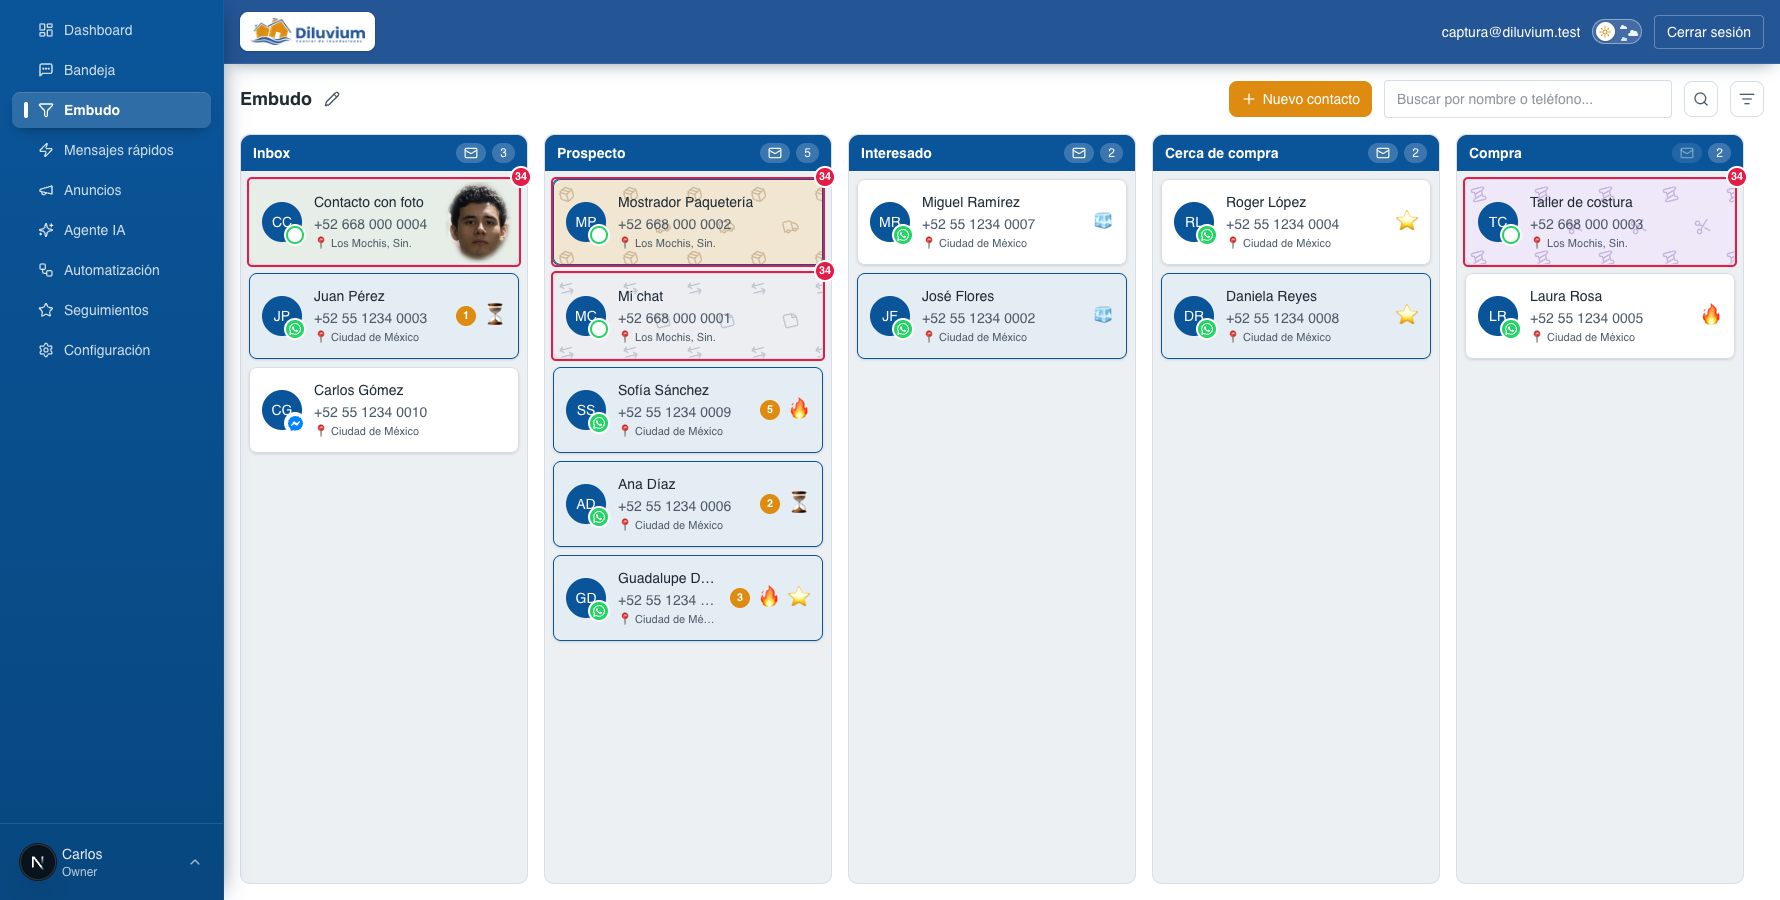
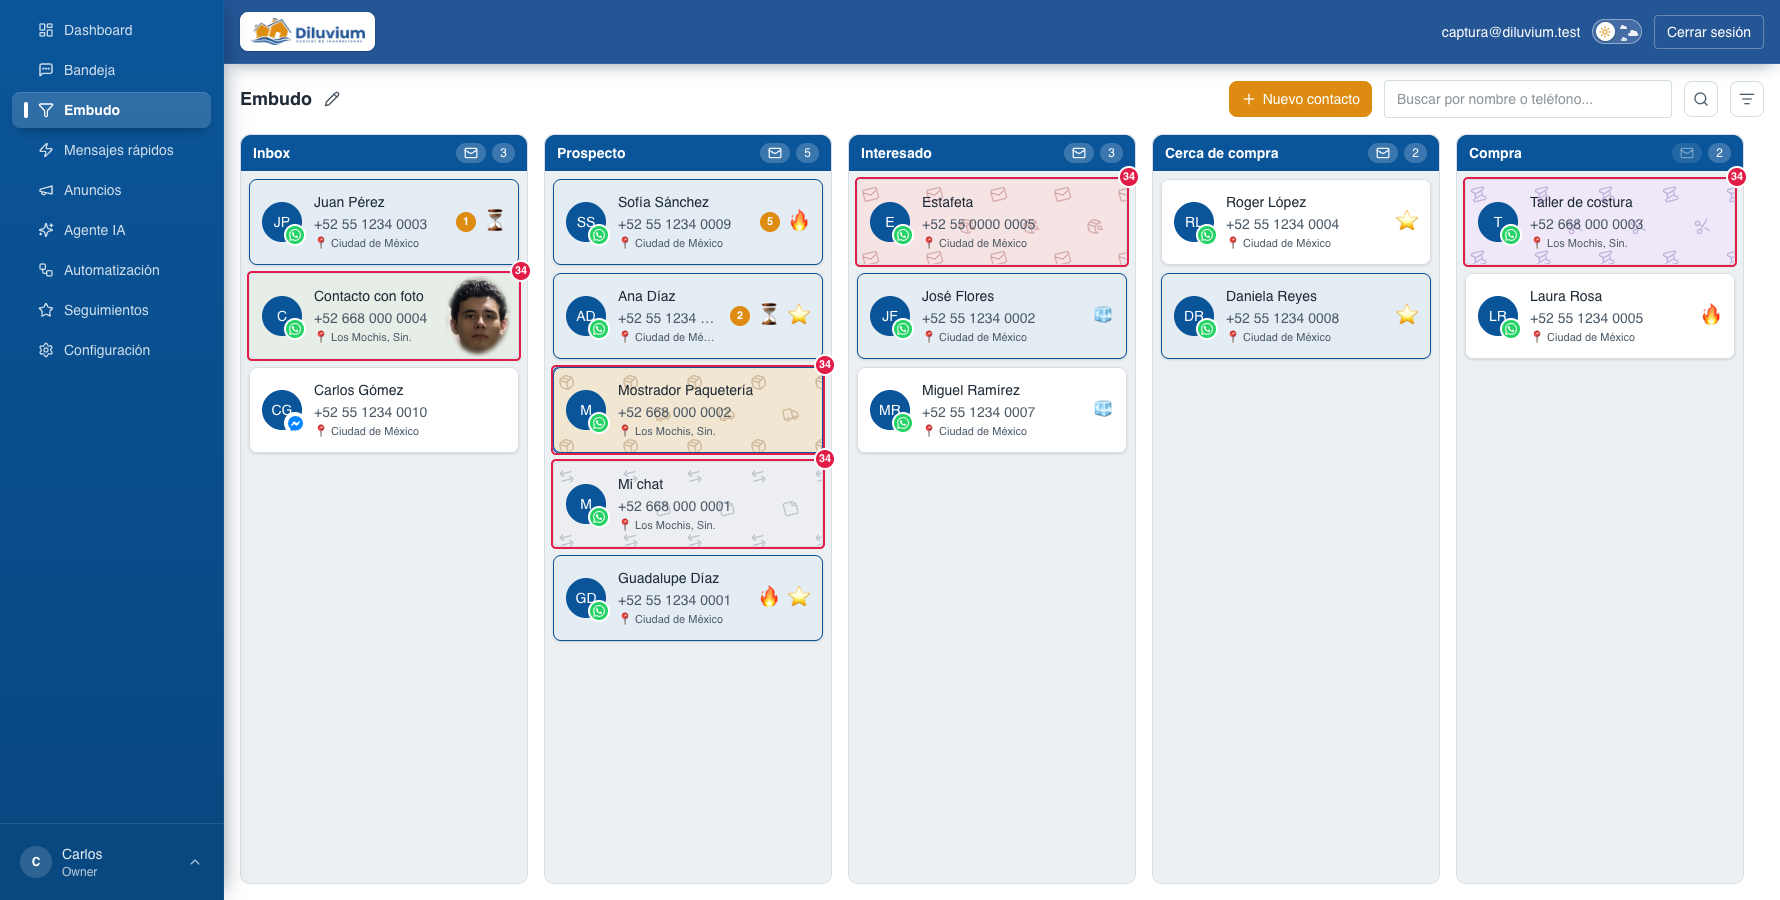
feat(embudo): tarjeta rosa para el chat de Estafeta
Pedido del dueño (14-nov-2026, opción A): el chat de Estafeta, que manda los avisos de los envíos en plantillas que
WhatsApp no deja ver («[Unsupported message]»), lleva su fondo fijo en el Embudo: rosa con sobres y una caja con
lupa de rastreo (íconos de Lucide, claro y oscuro), distinto del cartón de Paquetexpress. Sin azul, amarillo ni
naranja; con señal, el azul o el amarillo salen solo como contorno, como en las demás.

En producción, con OK LECTURA PROD y OK ESCRITURA PROD, el contacto se llamó «Estafeta» (antes era su número) y quedó
sin Agente IA (contacts.sin_agente_ia, 1 fila, sin migración: hay migraciones de otras ramas sin llegar a main).
Respaldo de la fila fuera del repo. Mapa 3.3 › 34 con captura 06-embudo-fondos, docs/bandeja.md y el registro de chats
sin Agente IA.

diff --git a/app/globals.css b/app/globals.css
@@ -302,12 +302,17 @@
    íconos de public/fondos/ según lo que hacen, o una foto. El diseño nunca se tapa
    (9-nov-2026, dueño): si la tarjeta pide atención (data-funnel), la señal sale solo
    como contorno. Sin azul (es «por contestar»), amarillo («necesita al vendedor») ni
-   naranja (nunca fondo extenso). paqueteria = cartón con cajas y camión; costura =
-   lila con carrete y tijeras; propio = gris con flechas de traspaso y notas; foto =
-   verde pálido con la cara a la derecha, sin tapar el texto. Claro y oscuro. */
+   naranja (nunca fondo extenso). paqueteria = cartón con cajas y camión; estafeta =
+   rosa con sobres y caja con lupa de rastreo (14-nov-2026); costura = lila con
+   carrete y tijeras; propio = gris con flechas de traspaso y notas; foto = verde
+   pálido con la cara a la derecha, sin tapar el texto. Claro y oscuro. */
 [data-fondo="paqueteria"] {
   --fondo-color: #f1e6d2;
   --fondo-patron: url("/fondos/paqueteria-claro.svg");
+}
+[data-fondo="estafeta"] {
+  --fondo-color: #f6e3e3;
+  --fondo-patron: url("/fondos/estafeta-claro.svg");
 }
 [data-fondo="costura"] {
   --fondo-color: #efe8f8;
@@ -320,6 +325,10 @@
 .dark [data-fondo="paqueteria"] {
   --fondo-color: #3b3022;
   --fondo-patron: url("/fondos/paqueteria-oscuro.svg");
+}
+.dark [data-fondo="estafeta"] {
+  --fondo-color: #3e2629;
+  --fondo-patron: url("/fondos/estafeta-oscuro.svg");
 }
 .dark [data-fondo="costura"] {
   --fondo-color: #2f2742;

diff --git a/lib/contacts/tarjeta-fondo.ts b/lib/contacts/tarjeta-fondo.ts
@@ -4,13 +4,16 @@
 // («por contestar») o el amarillo («el Agente IA necesita al vendedor») salen solo como contorno alrededor.
 // Por id del contacto (el teléfono no va al repo, que es público). docs/mapa-crm/3.3-embudo.md.
 
-export type TarjetaFondo = "paqueteria" | "costura" | "propio" | "foto";
+export type TarjetaFondo = "paqueteria" | "estafeta" | "costura" | "propio" | "foto";
 
 const FONDO_POR_CONTACTO: ReadonlyMap<string, TarjetaFondo> = new Map([
   // Chat propio del dueño, para pasarse mensajes (sin Agente IA, migración 0071).
   ["d3bc6189-89c8-4739-b29d-06d9b4b909c6", "propio"],
   // Paquetería: desde aquí se piden las recolecciones (sin Agente IA, migración 0072).
   ["74f1580f-eddf-4833-ba12-7493c5323170", "paqueteria"],
+  // Estafeta: avisos de los envíos en plantillas que WhatsApp no deja ver (sin Agente IA desde el 14-nov-2026,
+  // marcado en producción con OK).
+  ["23fcc0c0-a453-4383-a2f8-a891dc2ce78c", "estafeta"],
   // Proveedor de las fundas a la medida (sin Agente IA desde el 29-oct-2026, marcado en producción con OK).
   ["e5aeb75f-9c5c-4673-ae43-1ba54aec9227", "costura"],
   // Contacto con su foto de fondo (sin Agente IA desde el 9-nov-2026, pedido por el dueño).

diff --git a/lib/contacts/tarjeta-fondo.test.ts b/lib/contacts/tarjeta-fondo.test.ts
@@ -3,6 +3,7 @@ import { tarjetaFondo } from "./tarjeta-fondo";
 
 const PROPIO = "d3bc6189-89c8-4739-b29d-06d9b4b909c6";
 const PAQUETERIA = "74f1580f-eddf-4833-ba12-7493c5323170";
+const ESTAFETA = "23fcc0c0-a453-4383-a2f8-a891dc2ce78c";
 const COSTURA = "e5aeb75f-9c5c-4673-ae43-1ba54aec9227";
 const FOTO = "d87bc548-54bd-4236-a0ec-854791cc7702";
 
@@ -10,6 +11,7 @@ describe("fondo de la tarjeta del Embudo", () => {
   it("cada chat que no es cliente lleva su fondo fijo", () => {
     expect(tarjetaFondo(PROPIO)).toBe("propio");
     expect(tarjetaFondo(PAQUETERIA)).toBe("paqueteria");
+    expect(tarjetaFondo(ESTAFETA)).toBe("estafeta");
     expect(tarjetaFondo(COSTURA)).toBe("costura");
     expect(tarjetaFondo(FOTO)).toBe("foto");
   });

diff --git a/docs/mapa-crm/3.3-embudo.md b/docs/mapa-crm/3.3-embudo.md
@@ -47,10 +47,12 @@ Temperatura en el pop-up (Detalle › 4): arriba la temperatura, abajo de la lí
 ![Temperatura y Destacado en el pop-up del Embudo](06-embudo-temperatura.png)
 
 **Tarjetas con fondo (34)** (29-oct-2026): los chats que no son clientes y que el Agente IA no lee (tu chat para pasarte
-mensajes, la paquetería de las recolecciones, el proveedor de fundas y un contacto con su foto) llevan un fondo fijo según
-lo que hacen: cartón con cajas y camión, lila con carrete y tijeras, gris con flechas y notas, y verde pálido con la cara
-a la derecha. Es solo para reconocerlos de un vistazo. El diseño nunca se tapa (9-nov-2026): si la tarjeta pide atención,
-el azul o el amarillo salen solo como contorno alrededor y, al atenderse, el contorno se quita.
+mensajes, la paquetería de las recolecciones, Estafeta, el proveedor de fundas y un contacto con su foto) llevan un fondo
+fijo según lo que hacen: cartón con cajas y camión, rosa con sobres y una caja con lupa de rastreo (14-nov-2026), lila
+con carrete y tijeras, gris con flechas y notas, y verde pálido con la cara a la derecha. Es solo para reconocerlos de un
+vistazo. Los avisos de Estafeta llegan como «[Unsupported message]»: son plantillas suyas que WhatsApp no deja ver.
+El diseño nunca se tapa (9-nov-2026): si la tarjeta pide atención, el azul o el amarillo salen solo como contorno
+alrededor y, al atenderse, el contorno se quita.
 En la captura, Mostrador Paquetería está «por contestar»: conserva sus cajas y lleva el contorno azul.
 No se pone desde la pantalla: se le pide a Code.
 
@@ -119,7 +121,7 @@ lápiz (17) y se elige a qué columna pasan los que queden.
 | 31 | **Círculo amarillo** (tarjeta) | Con la lupa (30): en cuántos mensajes de sus chats aparece la palabra, junto al círculo naranja (6). Es amarillo **sólido con borde**, distinto del fondo claro de la tarjeta amarilla (3). En la captura de la lupa. | Todos |
 | 32 | **Palabra resaltada y «1 de N»** (pop-up) | Al abrir la tarjeta con la lupa prendida, el chat del pop-up resalta la palabra en amarillo, salta a la coincidencia más reciente y la recorre con ↑ ↓, igual que la Bandeja (28). En la captura del pop-up con la lupa. | Todos |
 | 33 | **No leído** (sobre junto al contador) | Píldora del mismo alto que el contador, solo con el sobre. Prendida (**naranja**) esa columna deja solo las tarjetas con algo pendiente: círculo naranja (6), azul (4) o amarilla (3); el contador cuenta solo esas y la vacía dice «Nada sin leer ni sin contestar». Cada columna va por su lado (se pueden prender varias). **Blanca** = apagada y la columna tiene pendientes; **tenue** = apagada y no tiene ninguno. En vivo: una tarjeta que se vuelve pendiente aparece sola; la que abres se queda mientras el pop-up está abierto aunque la leas, y se va al cerrarlo. Se suma al buscador (1), la lupa (30) y el filtro (29). No se recuerda al recargar. Desde el 30-sep-2026. | Todos |
-| 34 | **Tarjeta con fondo** | Diseño fijo de los chats que no son clientes (paquetería, costura, chat propio, contacto con foto). Pura vista: mientras pida atención, el azul (4) o el amarillo (3) salen solo como contorno, sin tapar el diseño. No hay botón: se agrega o se quita pidiéndoselo a Code. | Todos |
+| 34 | **Tarjeta con fondo** | Diseño fijo de los chats que no son clientes (paquetería, Estafeta, costura, chat propio, contacto con foto). Pura vista: mientras pida atención, el azul (4) o el amarillo (3) salen solo como contorno, sin tapar el diseño. No hay botón: se agrega o se quita pidiéndoselo a Code. | Todos |
 | 35 | **Cargando más contactos…** (final de Inbox) | Al bajar en Inbox llegan los siguientes contactos solos, de 500 en 500; mientras, dice «Cargando más contactos…» (o «Hay más contactos abajo»). El contador de la columna sigue diciendo el total. Al buscar por nombre, teléfono o @usuario también encuentra a los que aún no bajaban («Buscando en todos los contactos…» junto al título). Desde el 2-nov-2026. | Todos |
 | 36 | **Columna Buen Fin** (encabezado rojo, temporal) | Lista de clientes para avisarles del descuento del Buen Fin en la compuerta estándar. Contorno que gira. En la barra roja, el temporizador en dos fases: «Empieza en» hasta el 13-nov y «En curso · termina en» del 13 al 18-nov 23:59 (hora de Mazatlán; alargado un día el 13-nov); luego «Terminó el Buen Fin». Al pasar el mouse dice las fechas. Al final, después de Compra; Modelo 1 (nunca Sonnet), fuera de las instrucciones del Agente IA: entran y salen solo arrastrando (quien compre, a Compra). Se borra al terminar la campaña. Desde el 3-nov-2026. | Todos |
 
@@ -136,4 +138,4 @@ ordenar, papel, modelo) quedan en **Agente IA › Historial**.
 apagado o pausado; pinta la tarjeta de amarillo cuando necesita al vendedor, y su chat y Detalle se ven igual que en
 la Bandeja (con el indicador de lo que está leyendo, Detalle › 28).
 
-<sub>Para Code: ruta `/embudo` (`/contactos` redirige); Inbox por partes (35): `lib/contacts/board-load.ts` (carga, tandas y búsqueda del servidor) y `contactos/_components/entrada-por-partes.ts` (contador y llegados; guion de captura `notas/capturas-mapa/capture-embudo-mas.mjs`); `app/(app)/contactos/_components/` (`contacts-board`, `contact-card`, `contact-detail-panel`, `contact-chat`); colores `lib/contacts/funnel-signals.ts` y `funnel-tone.ts`, estilos `[data-funnel]` y `[data-funnel-card]` (luz gris) en `app/globals.css`; «Marcar como leído» = `mark-read-button.tsx` + `conversations.attended_at` (migración 0045); «Quitar tarjeta» (16) = `clearContactCard` (lib/inbox/actions.ts) → `clearContactCardForOrg` (lib/inbox/queries.ts): `attended_at` + `urgent_cleared_at` (migración 0060; el aviso del agente NO se resuelve); orden de la columna = `board-live.ts` (`columnsByStage`: etapa o último entrante, que sale de `window_expires_at` − 24 h). Columnas: tabla `funnel_stages` (migración 0041), editor `app/(app)/_components/stages-editor.tsx`, etapas en vivo `funnel-stages-provider.tsx` (evento SSE `stages.updated`). Nuevo contacto: `new-contact-dialog.tsx` → `createContact` (lib/actions/contacts.ts) → `lib/contacts/create-manual.ts` (source `manual`, candado por teléfono como la entrada, fuera de Conversaciones nuevas en `lib/dashboard/queries.ts`); teléfono `lib/contacts/manual-phone.ts`. Sin chat: `first-message.tsx`; WhatsApp Web `lib/contacts/whatsapp-link.ts`; plantilla `startChatWithTemplate` (lib/inbox/actions.ts) → `lib/messaging/start-conversation.ts` → Zernio `POST /v1/inbox/conversations`. Filtro (29): mismo `card-filter-button.tsx`, en el navegador sobre las tarjetas ya cargadas (`matchesCardFilter` de `lib/contacts/filters.ts`, lee `destacado` del contacto). Temperatura + ⭐ del pop-up: `temperature-destacado-menu.tsx` (solo si `ContactDetails` recibe `onDestacadoChange`); puesta al día en vivo `applyMarks` (board-live.ts). Lupa (30–32): `ChatSearchButton` + `searchChatsByContact` (lib/inbox/actions.ts → `searchChatsByContactForOrg` en lib/inbox/chat-search.ts, [contactId, cuántos]); el tablero filtra sus tarjetas con ese resultado, lo vuelve a pedir con cada `message.upserted`/`message.deleted` (1.5 s) y pasa `searchTerm` a `ContactDetailPanel` → `ContactChat` → `ChatThread`. No leído (33): botón en el encabezado de `StageColumn` (contacts-board.tsx), estado `unreadStages` por etapa y `keptContactId` (la tarjeta abierta no se va hasta cerrar el pop-up); regla `needsAttention` en `lib/contacts/funnel-tone.ts` (círculo, azul o amarilla) sobre las señales que el tablero ya tiene en vivo (sin consulta nueva). Tarjeta con fondo (34): `lib/contacts/tarjeta-fondo.ts` (ids fijos → `paqueteria` · `costura` · `propio`; sin fondo si hay señal) → `data-fondo` en la tarjeta y en la copia del arrastre; estilos `[data-fondo]` en `app/globals.css`; patrones `public/fondos/<tipo>-claro|oscuro.svg` (íconos de Lucide). Columna Buen Fin (36): fila de `funnel_stages` con clave `buen_fin` (#DC2626, Modelo 1, sin regla), creada con `~/Documents/Diluvium CRM/notas/buen-fin/crear-columna-buen-fin.sql` (el editor no elige color); el encabezado rojo, el temporizador de dos fases (`buen-fin-countdown.tsx`, `temporizador()` + `useSyncExternalStore` de un segundo) y el contorno que gira (`data-borde-buen-fin` → `[data-borde-buen-fin]` en `app/globals.css`, `@property --buen-fin-angulo`) salen de esa clave en `StageColumn` (contacts-board.tsx). El Agente IA y el lector no la ven (`ETAPAS_FUERA_DEL_AGENTE` en `lib/contacts/stages.ts`; docs/agente-ia/2026-11-04-buen-fin-fuera-del-agente.md). Al borrar la columna, quitar también esa condición, el componente, el estilo y la clave de `ETAPAS_FUERA_DEL_AGENTE`.</sub>
+<sub>Para Code: ruta `/embudo` (`/contactos` redirige); Inbox por partes (35): `lib/contacts/board-load.ts` (carga, tandas y búsqueda del servidor) y `contactos/_components/entrada-por-partes.ts` (contador y llegados; guion de captura `notas/capturas-mapa/capture-embudo-mas.mjs`); `app/(app)/contactos/_components/` (`contacts-board`, `contact-card`, `contact-detail-panel`, `contact-chat`); colores `lib/contacts/funnel-signals.ts` y `funnel-tone.ts`, estilos `[data-funnel]` y `[data-funnel-card]` (luz gris) en `app/globals.css`; «Marcar como leído» = `mark-read-button.tsx` + `conversations.attended_at` (migración 0045); «Quitar tarjeta» (16) = `clearContactCard` (lib/inbox/actions.ts) → `clearContactCardForOrg` (lib/inbox/queries.ts): `attended_at` + `urgent_cleared_at` (migración 0060; el aviso del agente NO se resuelve); orden de la columna = `board-live.ts` (`columnsByStage`: etapa o último entrante, que sale de `window_expires_at` − 24 h). Columnas: tabla `funnel_stages` (migración 0041), editor `app/(app)/_components/stages-editor.tsx`, etapas en vivo `funnel-stages-provider.tsx` (evento SSE `stages.updated`). Nuevo contacto: `new-contact-dialog.tsx` → `createContact` (lib/actions/contacts.ts) → `lib/contacts/create-manual.ts` (source `manual`, candado por teléfono como la entrada, fuera de Conversaciones nuevas en `lib/dashboard/queries.ts`); teléfono `lib/contacts/manual-phone.ts`. Sin chat: `first-message.tsx`; WhatsApp Web `lib/contacts/whatsapp-link.ts`; plantilla `startChatWithTemplate` (lib/inbox/actions.ts) → `lib/messaging/start-conversation.ts` → Zernio `POST /v1/inbox/conversations`. Filtro (29): mismo `card-filter-button.tsx`, en el navegador sobre las tarjetas ya cargadas (`matchesCardFilter` de `lib/contacts/filters.ts`, lee `destacado` del contacto). Temperatura + ⭐ del pop-up: `temperature-destacado-menu.tsx` (solo si `ContactDetails` recibe `onDestacadoChange`); puesta al día en vivo `applyMarks` (board-live.ts). Lupa (30–32): `ChatSearchButton` + `searchChatsByContact` (lib/inbox/actions.ts → `searchChatsByContactForOrg` en lib/inbox/chat-search.ts, [contactId, cuántos]); el tablero filtra sus tarjetas con ese resultado, lo vuelve a pedir con cada `message.upserted`/`message.deleted` (1.5 s) y pasa `searchTerm` a `ContactDetailPanel` → `ContactChat` → `ChatThread`. No leído (33): botón en el encabezado de `StageColumn` (contacts-board.tsx), estado `unreadStages` por etapa y `keptContactId` (la tarjeta abierta no se va hasta cerrar el pop-up); regla `needsAttention` en `lib/contacts/funnel-tone.ts` (círculo, azul o amarilla) sobre las señales que el tablero ya tiene en vivo (sin consulta nueva). Tarjeta con fondo (34): `lib/contacts/tarjeta-fondo.ts` (ids fijos → `paqueteria` · `estafeta` · `costura` · `propio` · `foto`; sin fondo si hay señal) → `data-fondo` en la tarjeta y en la copia del arrastre; estilos `[data-fondo]` en `app/globals.css`; patrones `public/fondos/<tipo>-claro|oscuro.svg` (íconos de Lucide). Columna Buen Fin (36): fila de `funnel_stages` con clave `buen_fin` (#DC2626, Modelo 1, sin regla), creada con `~/Documents/Diluvium CRM/notas/buen-fin/crear-columna-buen-fin.sql` (el editor no elige color); el encabezado rojo, el temporizador de dos fases (`buen-fin-countdown.tsx`, `temporizador()` + `useSyncExternalStore` de un segundo) y el contorno que gira (`data-borde-buen-fin` → `[data-borde-buen-fin]` en `app/globals.css`, `@property --buen-fin-angulo`) salen de esa clave en `StageColumn` (contacts-board.tsx). El Agente IA y el lector no la ven (`ETAPAS_FUERA_DEL_AGENTE` en `lib/contacts/stages.ts`; docs/agente-ia/2026-11-04-buen-fin-fuera-del-agente.md). Al borrar la columna, quitar también esa condición, el componente, el estilo y la clave de `ETAPAS_FUERA_DEL_AGENTE`.</sub>

diff --git a/docs/bandeja.md b/docs/bandeja.md
@@ -240,10 +240,11 @@ clic abre un menú para cambiarla sin abrir el chat. Lista y panel quedan sincro
   "por contestar" y una tarjeta bajo el mouse parecía pendiente.
 - **Tarjeta con fondo (29-oct-2026, regla del dueño):** los chats que no son clientes llevan un color y un
   patrón de íconos fijos o una foto, pura estética (`lib/contacts/tarjeta-fondo.ts` por id → `data-fondo`; archivos en
-  `public/fondos/`): paquetería = cartón, costura = lila, chat propio = gris, foto = verde pálido con la cara a la
-  derecha. Sin azul, amarillo ni naranja. El diseño nunca se tapa (9-nov-2026): con la señal encendida se queda y el
-  azul o el amarillo salen solo como contorno (borde más un anillo de 1 px). El archivo de la foto es público como
-  todo `public/`, y queda en el repo que también lo es (lo aceptó el dueño): nombre neutro y sin datos del contacto.
+  `public/fondos/`): paquetería = cartón, Estafeta = rosa con sobres y caja con lupa (14-nov-2026), costura = lila,
+  chat propio = gris, foto = verde pálido con la cara a la derecha. Sin azul, amarillo ni naranja. El diseño nunca
+  se tapa (9-nov-2026): con la señal encendida se queda y el azul o el amarillo salen solo como contorno (borde más
+  un anillo de 1 px). El archivo de la foto es público como todo `public/`, y queda en el repo que también lo es (lo
+  aceptó el dueño): nombre neutro y sin datos del contacto.
 - **Columna Buen Fin (3-nov-2026, dueño, temporal):** la única columna con encabezado **rojo** (`bg-red-600`)
   en vez del azul marino, con contorno que gira (`[data-borde-buen-fin]` en `globals.css`) y, debajo del nombre, el
   temporizador en dos fases (`buen-fin-countdown.tsx`): «Empieza en» hasta el 13-nov 00:00 y «En curso · termina en»

diff --git a/docs/agente-ia/2026-10-26-chat-sin-agente-ia.md b/docs/agente-ia/2026-10-26-chat-sin-agente-ia.md
@@ -27,6 +27,10 @@ PROD y OK ESCRITURA PROD, que se cancela si no toca exactamente 1 fila.
   seguía en staging). Se deshace con `update contacts set sin_agente_ia = false where id = 'e5aeb75f-9c5c-4673-ae43-1ba54aec9227'`.
 - **En producción, sin migración** (9-nov-2026): un contacto con tarjeta de foto (la 0075 y la 0078 siguen sin llegar a
   main). Se deshace con `update contacts set sin_agente_ia = false where id = 'd87bc548-54bd-4236-a0ec-854791cc7702'`.
+- **En producción, sin migración** (14-nov-2026): Estafeta, que manda los avisos de los envíos en plantillas que WhatsApp
+  no deja ver («[Unsupported message]»); se le puso el nombre «Estafeta» en la misma escritura (antes era su número) y
+  lleva la tarjeta rosa. Respaldo de la fila en `~/Documents/Diluvium CRM/notas/tarjeta-estafeta/`. Se deshace con
+  `update contacts set sin_agente_ia = false where id = '23fcc0c0-a453-4383-a2f8-a891dc2ce78c'`.
 
 
 **Fondo en el Embudo (29-oct-2026):** llevan además un fondo fijo en su tarjeta del Embudo
